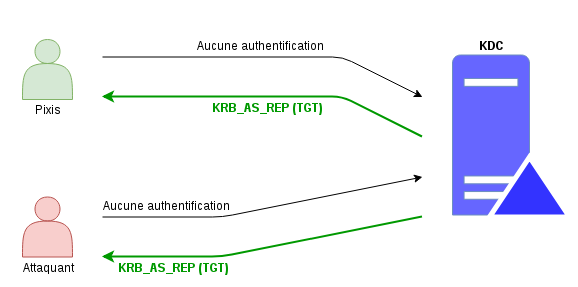
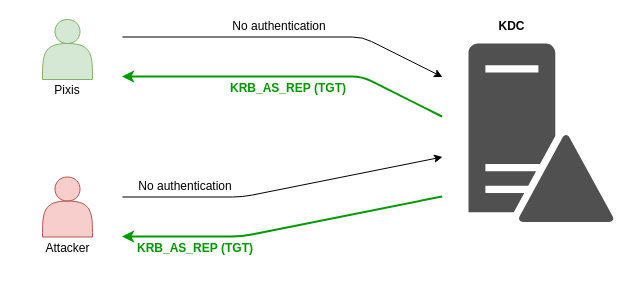
Update english versions

diff --git a/_drafts/2019-03-02-silver-golden-ticket.md b/_drafts/2019-03-02-silver-golden-ticket.md
@@ -119,31 +119,34 @@ Here is a schematic summarizing the attack:
 
 [![Silver Ticket](/assets/uploads/2019/02/silverticket.png)](/assets/uploads/2019/02/silverticket.png)
 
-En pratique, voici une capture d'écran qui montre la création d'un Silver Ticket avec l'outil [Mimikatz](http://blog.gentilkiwi.com/mimikatz) développé par Benjamin Delpy ([@gentilkiwi](https://twitter.com/gentilkiwi)).
+
+In practice, here is a screenshot showing the creation of a Silver Ticket with [Mimikatz](http://blog.gentilkiwi.com/mimikatz) tool developed by Benjamin Delpy ([@gentilkiwi](https://twitter.com/gentilkiwi)).
+
 
 [![CIFS Example](/assets/uploads/2019/02/ST_CIFS.png)](/assets/uploads/2019/02/ST_CIFS.png)
 
 Here's the command line used in Mimikatz:
 
 ```
-/kerberos::golden /domain:adsec.local /user:random_user /sid:S-1-5-21-1423455951-1752654185-1824483205 /rc4:ceaxxxxxxxxxxxxxxxxxxxxxxxxxxxxx /target:DESKTOP-01.adsec.local /service:cifs /ptt
+/kerberos::golden /domain:adsec.local /user:random_user /sid:S-1-5-21-1423455951-1752654185-1824483205 /rc4:0123456789abcdef0123456789abcdef /target:DESKTOP-01.adsec.local /service:cifs /ptt
 ```
 
-Cela veut dire qu'on crée un ticket pour le domaine `adsec.local` avec un nom d'utilisateur **arbitraire** (`random_user`), et que l'on vise le service `CIFS` de la machine `DESKTOP-01` en fournissant son hash NTLM.
+This command line creates a ticket for `adsec.local` domain with an arbitrary username (`random_user`), and targets `CIFS` service of `DESKTOP-01` machine by providing its NT hash.
 
-Il est également possible de créer un Silver Ticket sous linux en utilisant [impaket](https://github.com/SecureAuthCorp/impacket), via l'outil `ticketer.py`.
+It is also possible to create a Silver Ticket under linux using [impaket](https://github.com/SecureAuthCorp/impacket), via `ticketer.py`.
 
 ```bash
-ticketer.py -nthash ceaxxxxxxxxxxxxxxxxxxxxxxxxxxxxx -domain-sid S-1-5-21-1423455951-1752654185-1824483205 -domain adsec.local -spn CIFS/DESKTOP-01.adsec.local random_user
+ticketer.py -nthash 0123456789abcdef0123456789abcdef -domain-sid S-1-5-21-1423455951-1752654185-1824483205 -domain adsec.local -spn CIFS/DESKTOP-01.adsec.local random_user
 ``` 
 
-Il faut ensuite exporter le chemin du ticket dans une variable d'environnement spéciale `KRB5CCNAME`
+Then export the ticket path into a special environment variable `KRB5CCNAME`.
+
 
 ```bash
-export KRB5CCNAME='/chemin/vers/random_user.ccache'
+export KRB5CCNAME='/path/to/random_user.ccache'
 ```
 
-Enfin, tous les outils de la suite `impacket` peuvent être utilisés avec ce ticket, via l'option `-k`
+Finally, all the tools from **impacket** can be used with this ticket, via the `-k` option.
 
 ```bash
 psexec.py -k DESKTOP-01.adsec.local
@@ -151,50 +154,53 @@ psexec.py -k DESKTOP-01.adsec.local
 
 ## Golden Ticket
 
-Nous avons vu qu'avec un **Silver Ticket**, il était possible d'accéder à un service fourni par un compte de domaine si ce compte était compromis. En effet, le service accepte les informations chiffrées avec son propre secret puisqu'en théorie, seul le service et le KDC ont connaissance de ce secret.
+We have seen that with a **Silver Ticket**, it was possible to access a service provided by a domain account if that account was compromised. The service accepts information encrypted with its own secret, since in theory only the service itself and the KDC are aware of this secret.
 
-C'est un bon début, mais nous pouvons aller plus loin. En construisant un Silver Ticket, l'attaquant s'affranchit du KDC puisqu'en réalité, le vrai PAC de l'utilisateur contenu dans son TGT ne permet pas d'effectuer toutes les actions qu'il souhaite. Pour pouvoir modifier le TGT, ou en forger un nouveau, il faudrait connaitre la clé qui l'a chiffré, c'est à dire celle du KDC. Cette clé, c'est en fait le hash NTLM du compte `krbtgt`. Ce compte est un simple compte, sans droits particuliers (au niveau système ou Active Directory) et même désactivé. Cette faible exposition permet de mieux le protéger.
+This is a good start, but we can go further. By building a Silver Ticket, the attacker gets rid of the KDC since in reality, the user's real PAC contained in his TGT does not allow him to perform all the actions he wants.
 
-Si jamais un attaquant parvient à trouver le hash NTLM de ce compte, il est alors en mesure de forger des TGT avec des PAC arbitraires. Et là, c'est un peu le Saint Graal. Il suffit de forger un TGT avec comme information que l'utilisateur de ce ticket fait partie du groupe "Administrateurs du Domaine", et le tour est joué.
+To be able to modify the TGT, or forge a new one, one would need to know the key that encrypted it, i.e. the KDC key. This key is in fact the hash of the `krbtgt` account. This account is a simple account, with no particular rights (at system or Active Directory level) and is even disabled. This low exposure makes it better protected.
 
-Avec un TGT de la sorte entre les mains, l'utilisateur peut demander au KDC n'importe quel TGS pour n'importe quel service. Or ces TGS auront une copie du PAC qu'a forgé l'attaquant, certifiant qu'il est administrateur de domaine.
+If an attacker ever manages to find the secret's hash of this account, he is then able to forge TGTs with arbitrary PACs. And that's kind of like the Holy Grail. Just forge a TGT stating that the user is part of "Domain Administrators" group, and that's it.
 
-C'est ce TGT forgé qui est appelé **Golden Ticket**. Le schéma de l'attaque est très similaire à celui du Silver Ticket. Voici une représentation également simplifiée :
+With such a TGT in his hands, the user can ask the KDC for any TGS for any service. These TGSs will have a copy of the PAC that the attacker has forged, certifying that he is a Domain Administrator.
+
+It is this forged TGT that is called **Golden Ticket**. 
 
 [![Golden Ticket](/assets/uploads/2019/02/goldenticket.png)](/assets/uploads/2019/02/goldenticket.png)
 
-En pratique, voici la démonstration de la création d'un **Golden Ticket**. D'abord, nous sommes dans une session qui ne possède pas de ticket en cache, et n'a pas les droits pour accéder à `\\DC-01.adsec.local\c$`.
+In practice, here is a demonstration of how to create a **Golden Ticket**. First, we are in a session that does not have a cached ticket, and does not have the rights to access `\\DC-01.adsec.local\c$`.
 
 [![Access denied](/assets/uploads/2019/03/golden_ticket_access_denied.png)](/assets/uploads/2019/03/golden_ticket_access_denied.png)
 
-On génère alors le **Golden Ticket** en utilisant le hash NTLM du compte `krbtgt`
+We then generate the **Golden Ticket** using the NT hash of the account `krbtgt`.
 
 [![GT Generation](/assets/uploads/2019/03/golden_ticket_generated.png)](/assets/uploads/2019/03/golden_ticket_generated.png)
 
-La ligne de commande utilisée dans Mimikatz est la suivante :
+Here's the command line used in Mimikatz:
 
 ```
-/kerberos::golden /domain:adsec.local /user:random_user /sid:S-1-5-21-1423455951-1752654185-1824483205 /krbtgt:ceaxxxxxxxxxxxxxxxxxxxxxxxxxxxxx /ptt
+/kerberos::golden /domain:adsec.local /user:random_user /sid:S-1-5-21-1423455951-1752654185-1824483205 /krbtgt:0123456789abcdef0123456789abcdef /ptt
 ```
-Cela veut dire qu'on crée un ticket pour le domaine `adsec.local` avec un nom d'utilisateur **arbitraire** (`random_user`), en fournissant le hash NTLM de l'utilisateur `krbtgt`. Cette commande crée un TGT avec une PAC indiquant que nous sommes administrateur du domaine (entre autre), et que nous nous appelons ANYUSER (choisi arbitrairement).
 
-Une fois ce ticket en mémoire, notre session est en mesure de demander un TGS pour n'importe quel [SPN](/service-principal-name-spn), par exemple pour `CIFS\DC-01.adsec.local` permettant de lire le contenu du partage `\\DC-01.adsec.local\$`
+This command line creates a ticket for `adsec.local` domain with an arbitrary username (`random_user`), by providing the NT hash of `krbtgt` user. This command creates a TGT with a PAC indicating that we are Domain Administrator (among other things), and that we are called random_user (arbitrarily chosen).
+
+Once we have this ticket in memory, our session is able to request a TGS for any [SPN](/service-principal-name-spn), e.g. for `CIFS\DC-01.adsec.local` to read the contents of the share `\DC-01.adsec.local\c$`.
 
 [![GT granted](/assets/uploads/2019/03/golden_ticket_access_granted.png)](/assets/uploads/2019/03/golden_ticket_access_granted.png)
 
-Il est également possible de créer un Golden Ticket sous linux en utilisant [impaket](https://github.com/SecureAuthCorp/impacket), via l'outil `ticketer.py`.
+It is also possible to create a Golden Ticket under linux using [impaket](https://github.com/SecureAuthCorp/impacket), via `ticketer.py`.
 
 ```bash
-ticketer.py -nthash ceaxxxxxxxxxxxxxxxxxxxxxxxxxxxxx -domain-sid S-1-5-21-1423455951-1752654185-1824483205 -domain adsec.local random_user
+ticketer.py -nthash 0123456789abcdef0123456789abcdef -domain-sid S-1-5-21-1423455951-1752654185-1824483205 -domain adsec.local random_user
 ``` 
 
-Il faut ensuite exporter le chemin du ticket dans une variable d'environnement spéciale `KRB5CCNAME`
+Then export the ticket path into a special environment variable `KRB5CCNAME`.
 
 ```bash
 export KRB5CCNAME='/chemin/vers/random_user.ccache'
 ```
 
-Enfin, tous les outils de la suite `impacket` peuvent être utilisés avec ce ticket, via l'option `-k`
+Finally, all the tools from **impacket** can be used with this ticket, via the `-k` option.
 
 ```bash
 secretsdump.py -k DC-01.adsec.local -just-dc-ntlm -just-dc-user krbtgt
@@ -203,23 +209,22 @@ secretsdump.py -k DC-01.adsec.local -just-dc-ntlm -just-dc-user krbtgt
 
 ## Méthodes de chiffrement
 
-Jusqu'ici, nous utilisions les hashs `NT` pour créer les Silver/Golden Tickets. En réalité, cela signifie que nous utilisions la méthode de chiffrement `RC4_HMAC_MD5`, mais ce n'est pas la seule qui existe. En effet, aujourd'hui, plusieurs méthodes de chiffrement sont possibles au sein d'un Active Directory car elles ont évolué avec les versions de Windows. Voici un tableau récapitulatif issu de la [documentation Microsoft](https://docs.microsoft.com/fr-fr/windows/security/threat-protection/security-policy-settings/network-security-configure-encryption-types-allowed-for-kerberos)
+Until now, we used `NT` hashes to create Silver/Golden Tickets. In reality, this means that we were using the `RC4_HMAC_MD5` encryption method, but it's not the only one available. Today, there are several encryption methods possible within Active Directory because they have evolved with versions of Windows. Here is a summary table from the [Microsoft documentation](https://docs.microsoft.com/fr-fr/windows/security/threat-protection/security-policy-settings/network-security-configure-encryption-types-allowed-for-kerberos)
 
 [![Encryption types](/assets/uploads/2019/03/encryption_types.png)](/assets/uploads/2019/03/encryption_types.png)
 
-Il est possible d'utiliser la méthode de chiffrement souhaitée pour générer le TGT. Il suffira de la préciser dans les futures requêtes avec le contrôleur de domaine (l'information se trouvera dans le champ `EType` associé au TGT). Voici un exemple avec l'utilisation du chiffrement AES256.
+The desired encryption method can be used to generate the TGT. The information can be found in `EType` field associated with the TGT. Here is an example using AES256 encryption.
 
-[![GT AES](/assets/uploads/2019/03/golden_ticket_access_granted_aes.png)](/assets/uploads/2019/03/golden_ticket_access_granted_aes.png)
+[![TGT AES](/assets/uploads/2019/03/golden_ticket_access_granted_aes.png)](/assets/uploads/2019/03/golden_ticket_access_granted_aes.png)
 
-Par ailleurs, d'après la présentation [Evading Microsoft ATA for 
-Active Directory Domination](https://www.blackhat.com/docs/us-17/thursday/us-17-Mittal-Evading-MicrosoftATA-for-ActiveDirectory-Domination.pdf) de [Nikhil Mittal](https://twitter.com/nikhil_mitt) à la Black Hat, cela permettrait de ne pas être détecté par Microsoft ATA, pour le moment, puisqu'on évite de faire un *downgade* de méthode de chiffrement. En effet, par défaut, la méthode de chiffrement utilisée est la plus forte supportée par le client.
-
+Furthermore, according to the presentation [Evading Microsoft ATA for 
+Active Directory Domination](https://www.blackhat.com/docs/us-17/thursday/us-17-Mittal-Evading-MicrosoftATA-for-ActiveDirectory-Domination.pdf) from [Nikhil Mittal](https://twitter.com/nikhil_mitt) at Black Hat, this would allow not to be detected by Microsoft ATA, for the moment, since one avoids making a *downgrade* of encryption method. By default, the encryption method used is the strongest supported by the client.
 
 ## Conclusion
 
-Cet article permet de clarifier les notions de PAC, Silver Ticket, Golden Ticket, ainsi que les différentes méthodes de chiffrement utilisées dans les échanges. Ces notions sont essentielles pour comprendre les attaques Kerberos dans un Active Directory.
+This article clarifies the concepts of PAC, Silver Ticket, Golden Ticket, as well as the different encryption methods used in authentication. These notions are essential to understand Kerberos attacks in Active Directory.
 
-N'hésitez pas à laisser un commentaire ou à me retrouver sur le [serveur Discord](https://discord.gg/9At6SUZ) du blog si vous avez des questions ou des idées !
+Feel free to leave a comment or find me on my [Discord server](https://discord.gg/9At6SUZ) if you have any questions or ideas!
 
 ## Ressources
 

diff --git a/_drafts/2019-03-08-service-principal-name.md b/_drafts/2019-03-08-service-principal-name.md
@@ -34,10 +34,6 @@ The service class is actually a somewhat generic name for the service. For examp
 
 If the service runs behind a custom port, or if you want to specify it to avoid any ambiguity, you can append it to the hostname:
 
-La classe du service est en fait un nom un peu générique qui correspond au service. Par exemple, tous les serveurs web sont regroupés dans la classe "www", les services SQL sont dans la classe "SqlServer" etc.
-
-Si jamais le service présente un port particulier, ou si on veut le préciser pour éviter toute ambiguïté, il est possible de l'ajouter à la fin :
-
 ```
 service_class/hostname_or_FQDN:port
 ```
